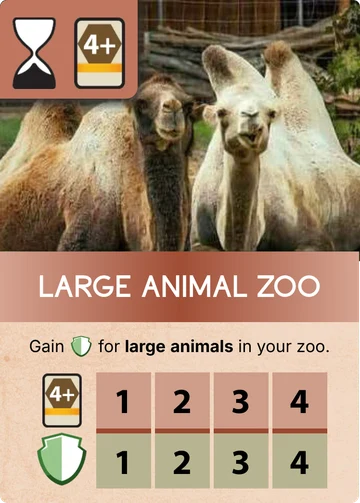
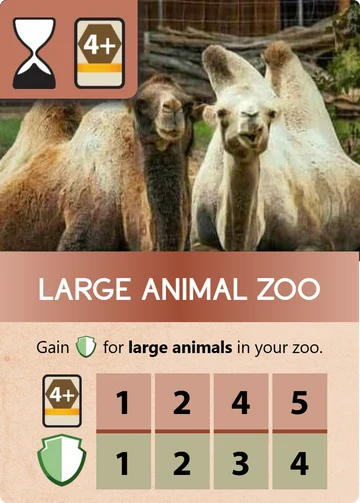
Endgame cards: the base game printing (F###) and the Marine Worlds one (F###_MW) for the six cards whose scores changed; the library switch covers them

diff --git a/scripts/cardgen/harness/entry.tsx b/scripts/cardgen/harness/entry.tsx
@@ -30,7 +30,9 @@ const renderCard0=(kind:string,idRaw:string)=>{
     const o=ourP.find((x:any)=>x.key==='P'+id);let slots=o?o.slots:c.slots;
     if(mw&&id==='131')slots=MW131;
     return renderToStaticMarkup(<ProjectCard project={{...c,slots}}/>);}
-  if(kind==='F'){const c=(EndGameData as any[]).find(x=>x.id===id);return c?renderToStaticMarkup(<BaseEndGameCard card={c}/>):null;}
+  if(kind==='F'){const c:any=(EndGameData as any[]).find(x=>x.id===id);if(!c)return null;
+    const d=!mw&&c.originalArray?{...c,scoreArray:c.originalArray}:c;                      // (the base game printing of a card whose scores changed in Marine Worlds: `originalArray`; F###_MW and the cards that did not change use `scoreArray`)
+    return renderToStaticMarkup(<BaseEndGameCard card={d}/>);}
 };
 import variants from '../../../data_manual/variants_mw.json';
 import nameFixes from '../../../data_manual/card_names.json';

diff --git a/scripts/build_cards.py b/scripts/build_cards.py
@@ -27,7 +27,8 @@ STRIP = (1000, 412, 250)                               # the strip of a project 
 STRIP_OUT = (600, 247)
 SLOT_SCALE = 1.5                                       # (the slots as large as the strip allows up to this factor of the card)
 SLOT_HEIGHT = 0.8
-VARIANTS = ["P131_MW", "S274_VC"]                       # Marine Worlds reprint with other indicators (data_manual/variants_mw.json); S250_MW is made from S250 below; S274_VC = the Mascot Statue under its BGA name Victory Column (setting "Mascot Statue")
+ENDGAME_MW = ["F001_MW", "F003_MW", "F005_MW", "F008_MW", "F010_MW", "F011_MW"]       # endgame cards whose scores changed in Marine Worlds (`originalArray` in the card data = the base game printing, drawn for F###; `scoreArray` = Marine Worlds, drawn for F###_MW)
+VARIANTS = ["P131_MW", "S274_VC", *ENDGAME_MW]                       # Marine Worlds reprint with other indicators (data_manual/variants_mw.json); S250_MW is made from S250 below; S274_VC = the Mascot Statue under its BGA name Victory Column (setting "Mascot Statue")
 
 
 def trim(im: Image.Image) -> Image.Image:

diff --git a/scripts/build_library.py b/scripts/build_library.py
@@ -85,8 +85,8 @@ def main() -> None:
             continue
         entry = describe(key, c)
         mw = (variants.get(key) or {}).get("marine_worlds")
-        if mw and (ROOT / "web" / "cards" / f"{key}_MW.webp").exists():              # a card that was reprinted for Marine Worlds: the page can switch between the two
-            other = describe(key, {**c, **mw})
+        if (ROOT / "web" / "cards" / f"{key}_MW.webp").exists():                     # a card that was reprinted for Marine Worlds (its own picture): the page can switch between the two
+            other = describe(key, {**c, **(mw or {})})                               # (the endgame cards whose scores changed differ in the picture only)
             entry["mw"] = {"icons": other["icons"], "text": other["text"]}
         cards.append(entry)
     abilities_all = sorted({a for e in cards for a in e.get("abilities", [])}, key=str.lower)
